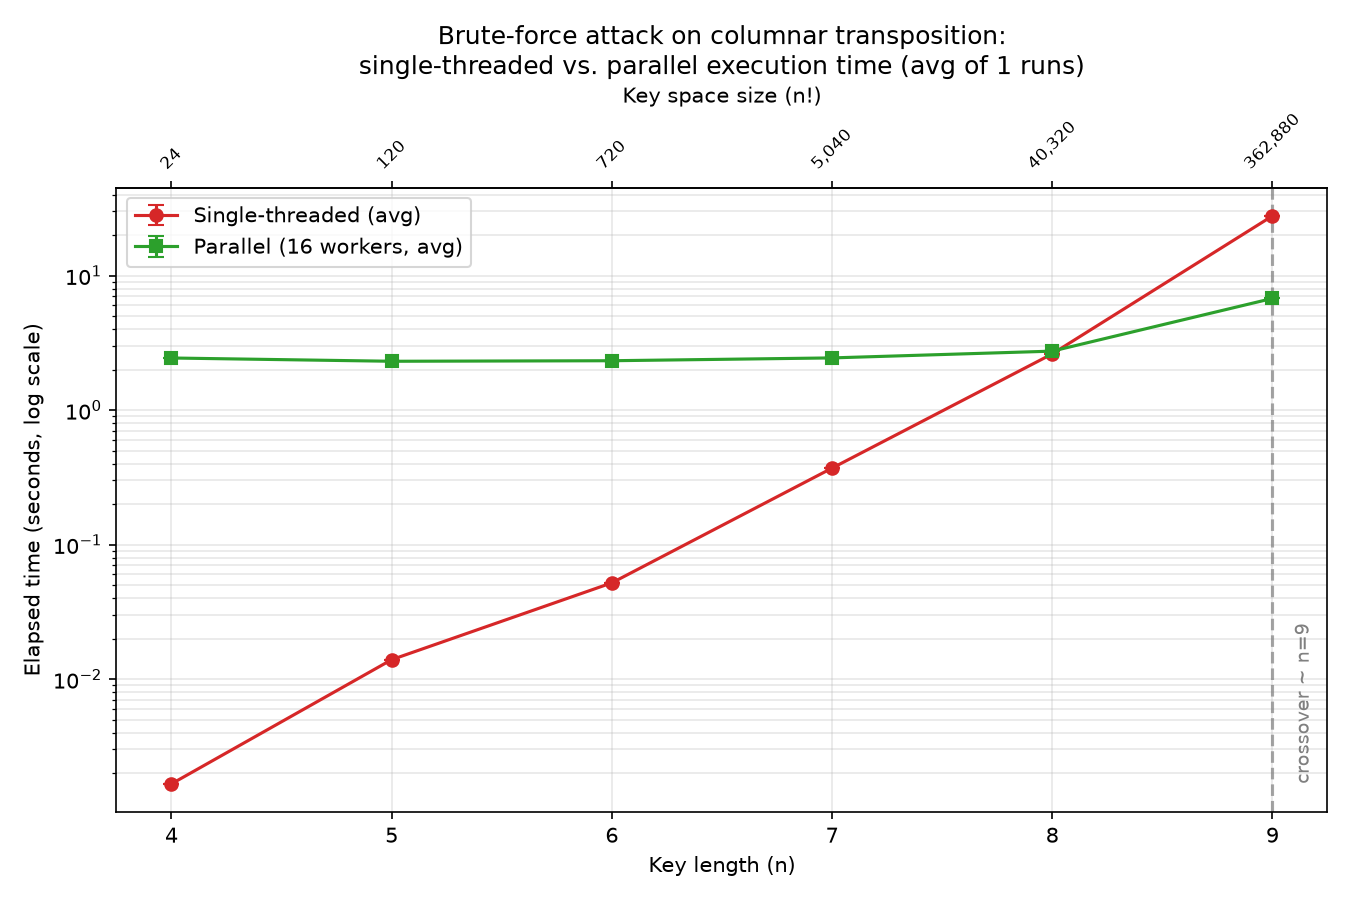
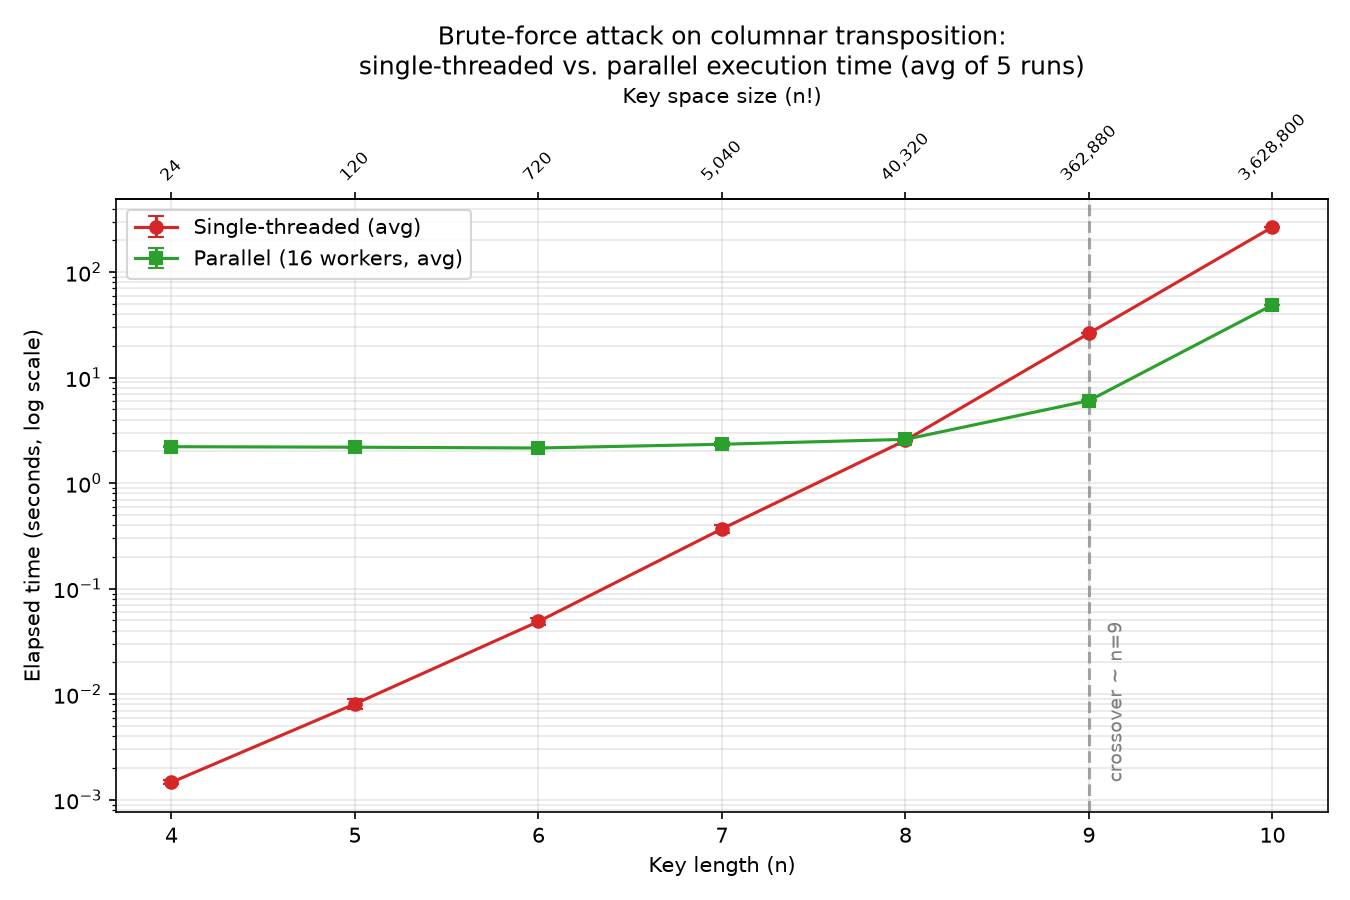
Further improvements to benchmarking and visualisation, added CrypTool2 comparison

diff --git a/ciphers/columnar_transposition.py b/ciphers/columnar_transposition.py
@@ -39,7 +39,7 @@ def key_space_size(key_length: int) -> int:
 
 if __name__ == "__main__":
     plaintext = "Sphinx of black quartz judge my vow"
-    key = (2, 0, 3, 1)
+    key = (3, 0, 4, 1, 2)
     ciphertext = encrypt(plaintext, key)
     print(f"Plaintext:  {plaintext}")
     print(f"Key:        {key}")

diff --git a/results/parallelization_benchmark.py b/results/parallelization_benchmark.py
@@ -12,8 +12,8 @@ from ciphers import columnar_transposition as transposition
 from attacks.transposition_attack import attack
 
 MIN_N = 4
-MAX_N = 9
-REPEATS = 1
+MAX_N = 10
+REPEATS = 5
 BASE_PLAINTEXT = (
     "sphinx of black quartz judge my vow "
     "the quick brown fox jumps over the lazy dog"

diff --git a/ciphers/caesar.py b/ciphers/caesar.py
@@ -19,7 +19,7 @@ def key_space_size() -> int:
 
 if __name__ == "__main__":
     plaintext = "Sphinx of black quartz judge my vow"
-    key = 7
+    key = 11
     ciphertext = encrypt(plaintext, key)
     print(f"Plaintext:  {plaintext}")
     print(f"Key:        {key}")
